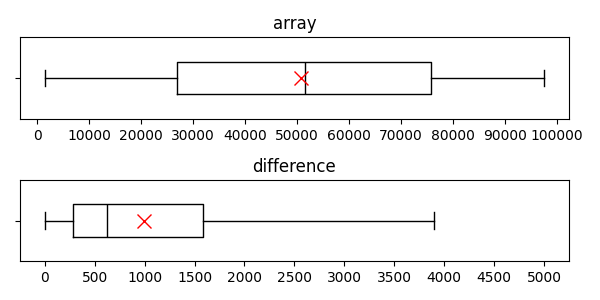
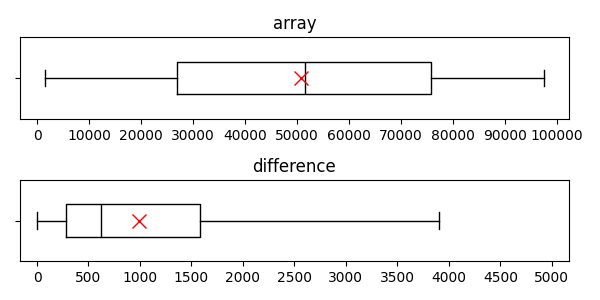
Change boxplot2.py & data1_2.png

diff --git a/py/boxplot2.py b/py/boxplot2.py
@@ -26,7 +26,7 @@ axes[0].boxplot(array, labels=[''], vert=False, whis=100, widths=0.4,
 #箱ひげ図2(diff)
 diff_L, diff_R = 0, 5000
 axes[1].set_title('difference')
-axes[1].set_xlim(diff_L - (diff_R - diff_L) / 20, diff_R + (diff_R - diff_L) / 20)
+axes[1].set_xlim(diff_L - (diff_R - diff_L) / 30, diff_R + (diff_R - diff_L) / 30)
 axes[1].set_xticks(range(0, 5001, 500))
 axes[1].boxplot(diff, labels=[''], vert=False, whis=100, widths=0.4,
            medianprops={'color': 'k'},
